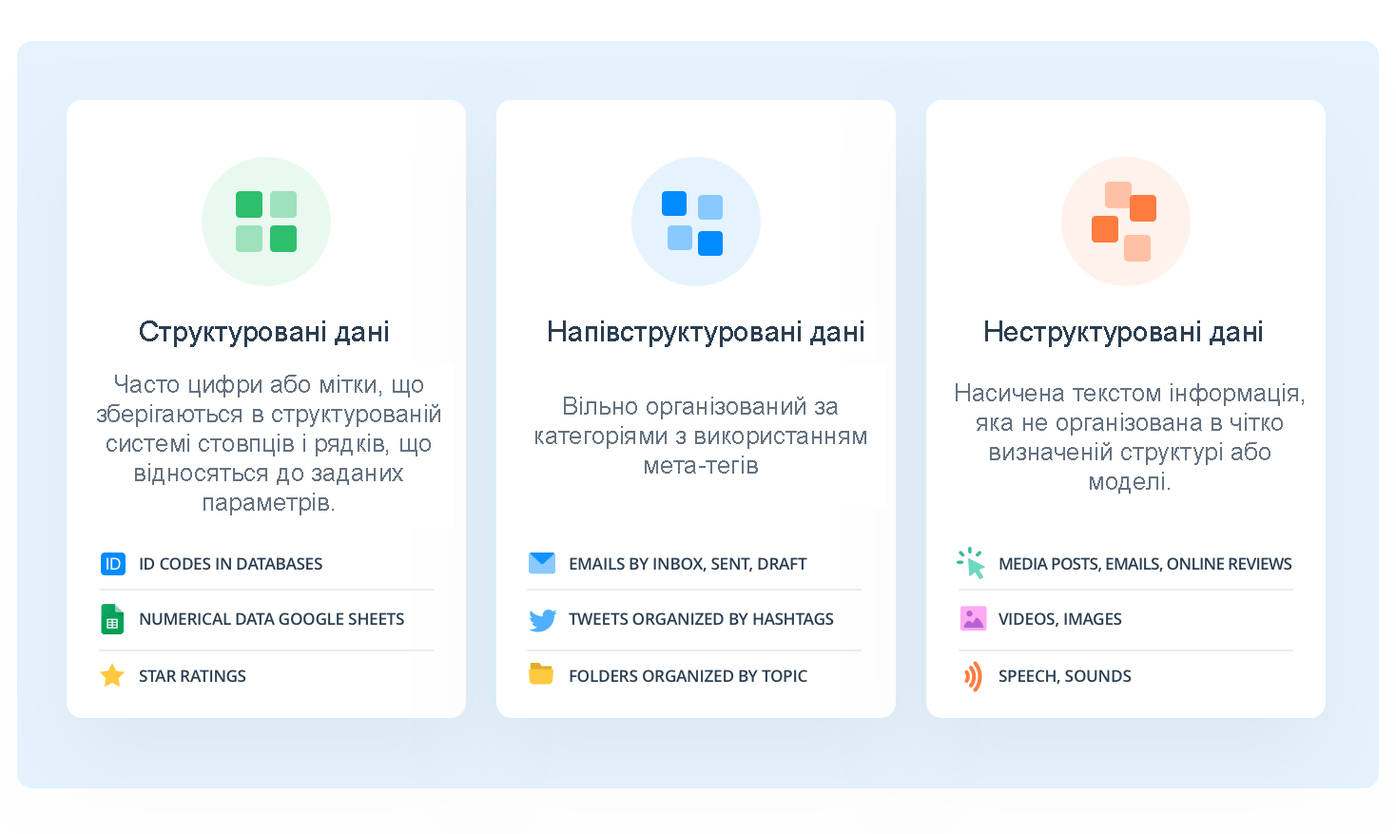
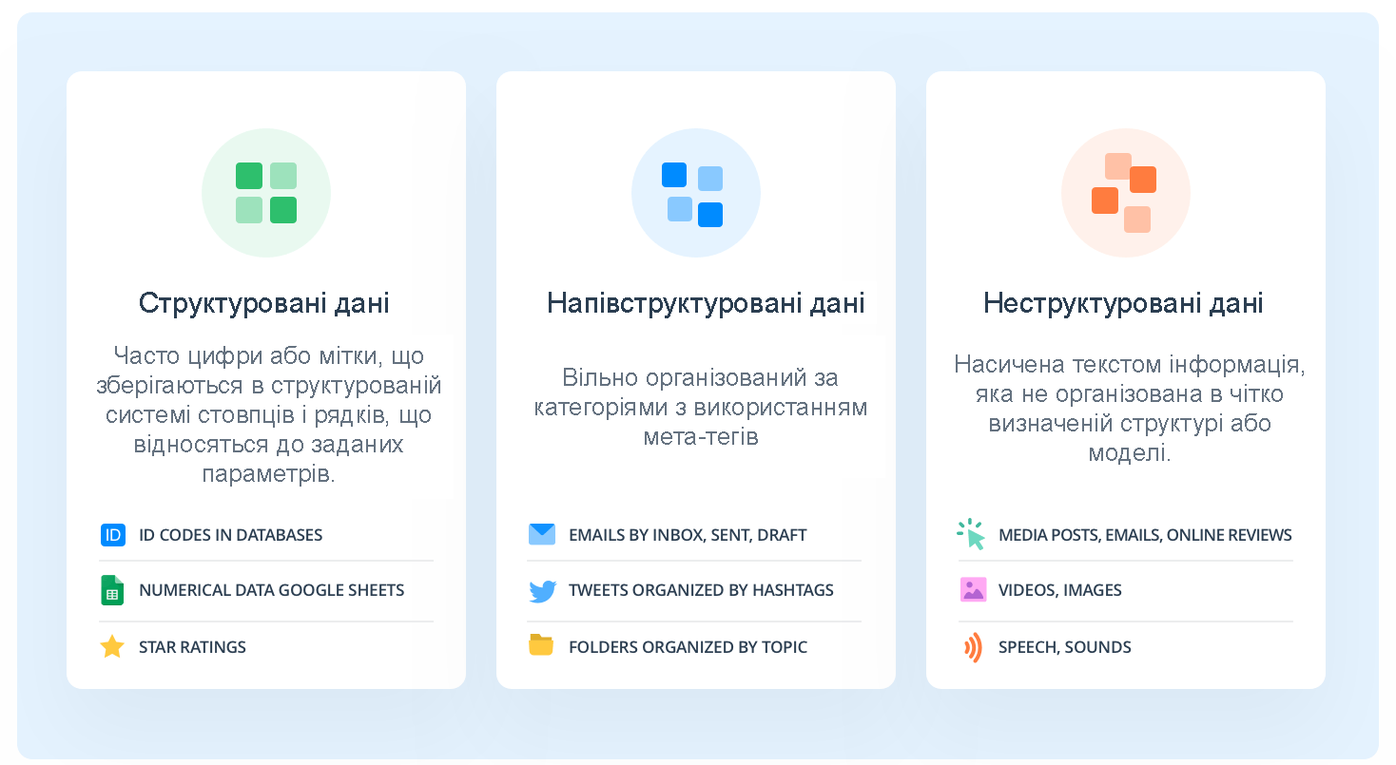
Виправив оформлення картинок

diff --git a/docs/requirements/state-of-the-art.md b/docs/requirements/state-of-the-art.md
@@ -7,118 +7,121 @@
 
 ## Основні визначення
 
-**База даних**  - сукупність даних, організованих відповідно до концепції, яка описує характеристику цих даних і взаємозв'язки між їх елементами; ця сукупність підтримує щонайменше одну з областей застосування. В загальному випадку база даних містить схеми, таблиці, подання, збережені процедури та інші об'єкти.[<sup>[1]</sup>](./state-of-the-art.html#висновки)
+**База даних**  - сукупність даних, організованих відповідно до концепції, яка описує характеристику цих даних і взаємозв'язки між їх елементами; ця сукупність підтримує щонайменше одну з областей застосування. В загальному випадку база даних містить схеми, таблиці, подання, збережені процедури та інші об'єкти.[<sup>[1]</sup>](./state-of-the-art.html#посилання)
 
-**Медіа контент**  - це інформація, яка міститься в засобах комунікації. Це включає в себе Інтернет, кіно, телебачення, радіо, аудіо компакт-диски, книги, журнали, фізичне мистецтво та живий контент. Він спрямований на кінцевого користувача або аудиторію в секторах видавництва, мистецтва та комунікацій.[<sup>[2]</sup>](./state-of-the-art.html#висновки)
+**Медіа контент**  - це інформація, яка міститься в засобах комунікації. Це включає в себе Інтернет, кіно, телебачення, радіо, аудіо компакт-диски, книги, журнали, фізичне мистецтво та живий контент. Він спрямований на кінцевого користувача або аудиторію в секторах видавництва, мистецтва та комунікацій.[<sup>[2]</sup>](./state-of-the-art.html#посилання)
 
-**Аналітика**  - основа інтелектуальної, логіко-мисленевої діяльності, спрямованої на рішення практичних завдань. У її основі лежить не стільки принцип констатації фактів, скільки принцип «випередження подій», що дозволяє організації або індивідові прогнозувати майбутній стан об'єкту аналізу.[<sup>[3]</sup>](./state-of-the-art.html#висновки)
+**Аналітика**  - основа інтелектуальної, логіко-мисленевої діяльності, спрямованої на рішення практичних завдань. У її основі лежить не стільки принцип констатації фактів, скільки принцип «випередження подій», що дозволяє організації або індивідові прогнозувати майбутній стан об'єкту аналізу.[<sup>[3]</sup>](./state-of-the-art.html#посилання)
 
-**Бібліотека(програмування)**  - збірка об'єктів чи підпрограм для вирішення близьких за тематикою задач. У залежності від мови програмування бібліотеки містять об'єктні модулі чи сирцевий код та дані, допоміжні для задіяння та інтеграції нових можливостей в програмні рішення.[<sup>[4]</sup>](./state-of-the-art.html#висновки)
+**Бібліотека(програмування)**  - збірка об'єктів чи підпрограм для вирішення близьких за тематикою задач. У залежності від мови програмування бібліотеки містять об'єктні модулі чи сирцевий код та дані, допоміжні для задіяння та інтеграції нових можливостей в програмні рішення.[<sup>[4]</sup>](./state-of-the-art.html#посилання)
 
-**Машинне навчання**  - це підгалузь штучного інтелекту в галузі інформатики, яка часто застосовує статистичні прийоми для надання комп'ютерам здатності «навчатися» (тобто, поступово покращувати продуктивність у певній задачі) з даних, без того, щоби бути програмованими явно.[<sup>[5]</sup>](./state-of-the-art.html#висновки)
+**Машинне навчання**  - це підгалузь штучного інтелекту в галузі інформатики, яка часто застосовує статистичні прийоми для надання комп'ютерам здатності «навчатися» (тобто, поступово покращувати продуктивність у певній задачі) з даних, без того, щоби бути програмованими явно.[<sup>[5]</sup>](./state-of-the-art.html#посилання)
 
-**Відкритий код**  - принцип «розподіленої» розробки, що використовується в технології, мистецтві, політиці громадських організацій та мереж, а насамперед — у створенні вільного програмного забезпечення.[<sup>[6]</sup>](./state-of-the-art.html#висновки)
+**Відкритий код**  - принцип «розподіленої» розробки, що використовується в технології, мистецтві, політиці громадських організацій та мереж, а насамперед — у створенні вільного програмного забезпечення.[<sup>[6]</sup>](./state-of-the-art.html#посилання)
 
-**FAQ**  - підбірка часто задаваних питань на певну тему та відповідей на них, яка створюється переважно для того, щоб не треба було постійно відповідати на одні й ті ж запитання, часто нудні для того, хто відповідає.[<sup>[7]</sup>](./state-of-the-art.html#висновки)
+**FAQ**  - підбірка часто задаваних питань на певну тему та відповідей на них, яка створюється переважно для того, щоб не треба було постійно відповідати на одні й ті ж запитання, часто нудні для того, хто відповідає.[<sup>[7]</sup>](./state-of-the-art.html#посилання)
 
 ## Підходи та способи вирішення завдання
 
 
-Основним елементом навколо якого відбуваються всі процеси є дані. Хто володіє інформацією, той володіє світом! Тому задля розширення сфери впливу наш проєкт ґрунтується на **Data mining**. Це техніка дослідження, яка використовує обчислювальний аналіз для виявлення закономірностей у великих наборах даних. Методи data mining варіюються від програм машинного навчання до ГІС і картографування, а також бізнес-аналітики. Діапазон типів даних ускладнює визначення методів аналізу даних.[<sup>[8]</sup>](./state-of-the-art.html#висновки)
+Основним елементом навколо якого відбуваються всі процеси є дані. Хто володіє інформацією, той володіє світом! Тому задля розширення сфери впливу наш проєкт ґрунтується на **Data mining**. Це техніка дослідження, яка використовує обчислювальний аналіз для виявлення закономірностей у великих наборах даних. Методи data mining варіюються від програм машинного навчання до ГІС і картографування, а також бізнес-аналітики. Діапазон типів даних ускладнює визначення методів аналізу даних.[<sup>[8]</sup>](./state-of-the-art.html#посилання)
 
 Медіаконтент зазвичай подається у зрозумілій для людини формі тексту, інколи обрамленій у вигляді аудіо або відео контенту. Все це інтерпретується комп'ютером як неструктурований текст. **Text mining** вирішує спектр таких задач перетворюючи неструктурований текст в структурований формат для  подальшого виявлення закономірностей і нових тенденцій.
 
-Текст є одним із найпоширеніших типів даних у БД. Залежно від бази даних ці дані можуть бути організовані наступним чином:[<sup>[9]</sup>](./state-of-the-art.html#висновки)
+Текст є одним із найпоширеніших типів даних у БД. Залежно від бази даних ці дані можуть бути організовані наступним чином:[<sup>[9]</sup>](./state-of-the-art.html#посилання)
 
 - Структуровані дані: ці дані стандартизовані в табличному форматі з численними рядками та стовпцями, що полегшує їх зберігання й обробку для аналізу та алгоритмів машинного навчання. Структуровані дані можуть містити такі вхідні дані, як імена, адреси та номери телефонів.
 - Неструктуровані дані: ці дані не мають попередньо визначеного формату даних. Він може включати текст з таких джерел, як соціальні мережі або огляди продуктів, або мультимедійні формати, такі як відео- та аудіофайли.
 - Напівструктуровані дані: як випливає з назви, ці дані являють собою суміш структурованих і неструктурованих форматів даних. Хоча у нього є певна організація, у нього недостатньо структури, щоб відповідати вимогам реляційної бази даних. Приклади напівструктурованих даних включають файли XML, JSON і HTML.
 
+Приклади окремих категорій даних, які належать до *Структурованих*, *Напівструктурованих* та *Неструкурованих* даних навередні на Рис. 1 
+
 ![Struct data](../media/1.png)
 
-*[Pic.1. What Is Unstructured Data](https://monkeylearn.com/blog/what-is-unstructured-data/)*
+*Рис. 1. Короткий огляд різновидів даних з прикладами[<sup>[22]</sup>](./state-of-the-art.html#посилання)*
 
 
-Перш ніж застосовувати різні методи інтелектуального аналізу тексту, ви повинні почати з попередньої обробки тексту, яка є практикою очищення та перетворення текстових даних у придатний для використання формат. Ця практика є основним аспектом **Natural Language Processing** (або NLP) — це компонент видобутку тексту, який виконує особливий вид лінгвістичного аналізу, який по суті допомагає машині «читати» текст.[<sup>[10]</sup>](./state-of-the-art.html#висновки) 
+Перш ніж застосовувати різні методи інтелектуального аналізу тексту, ви повинні почати з попередньої обробки тексту, яка є практикою очищення та перетворення текстових даних у придатний для використання формат. Ця практика є основним аспектом **Natural Language Processing** (або NLP) — це компонент видобутку тексту, який виконує особливий вид лінгвістичного аналізу, який по суті допомагає машині «читати» текст.[<sup>[10]</sup>](./state-of-the-art.html#посилання) За допомогою NLP користувач може створити універсальний підхід, який буде побудований на окремо взятих методах обробки природньої мови (див. Рис. 2)
 
 ![NLP](../media/2.png)
 
-*[Pic.2. Natural Language Processing (NLP) based Chatbots](https://medium.com/analytics-vidhya/natural-language-processing-nlp-based-chatbots-7b2436428256)*
-
+*Рис. 2. Методи NLP, використані для ствоення чат-боту[<sup>[23]</sup>](./state-of-the-art.html#посилання)*
 
 
 NLP використовує різні методології для розшифровки неоднозначності в людській мові, включаючи наступні:
 
-- **Tokenization**: Це процес розбиття довгого тексту на речення та слова, які називаються "токенами". Потім вони використовуються в моделях, таких як bag-of-words, для кластеризації тексту і завдань зіставлення документів.[<sup>[9]</sup>](./state-of-the-art.html#висновки)
+- **Tokenization**: Це процес розбиття довгого тексту на речення та слова, які називаються "токенами". Потім вони використовуються в моделях, таких як bag-of-words, для кластеризації тексту і завдань зіставлення документів.[<sup>[9]</sup>](./state-of-the-art.html#посилання)
 
-- **Stemming**: Це процес відділення префіксів і суфіксів від слів для отримання форми та значення кореня слова. Цей метод покращує пошук інформації шляхом зменшення розміру індексованих файлів.[<sup>[9]</sup>](./state-of-the-art.html#висновки)
+- **Stemming**: Це процес відділення префіксів і суфіксів від слів для отримання форми та значення кореня слова. Цей метод покращує пошук інформації шляхом зменшення розміру індексованих файлів.[<sup>[9]</sup>](./state-of-the-art.html#посилання)
 
-- **Summarization**: Цей метод забезпечує короткий виклад довгих фрагментів тексту для створення короткого, зв'язного резюме основних положень документа.[<sup>[2]</sup>](./state-of-the-art.html#висновки)
+- **Summarization**: Цей метод забезпечує короткий виклад довгих фрагментів тексту для створення короткого, зв'язного резюме основних положень документа.[<sup>[2]</sup>](./state-of-the-art.html#посилання)
+
+Поєднуючи всі ці процеси в один, з легістю можна розбити речення для подальшого аналізу машиною або людиною (див. Рис. 3)
 
 ![TPS](../media/3.jpeg)
 
-[Pic.3. Email Classification Using Natural Language Processing (NLP)](https://medium.datadriveninvestor.com/email-classification-using-natural-language-processing-nlp-ee3573bc79f7)
+Рис. 3. Процес розбиття речення на структурні одиниці[<sup>[24]</sup>](./state-of-the-art.html#посилання)
 
 
-- **Part-of-Speech (PoS) tagging**: Цей метод присвоює тег кожному токену в документі на основі його частини мови, тобто позначає іменники, дієслова, прикметники тощо. цей крок дозволяє проводити семантичний аналіз неструктурованого тексту.[<sup>[9]</sup>](./state-of-the-art.html#висновки)
+- **Part-of-Speech (PoS) tagging**: Цей метод присвоює тег кожному токену в документі на основі його частини мови (див. Рис. 4), тобто позначає іменники, дієслова, прикметники тощо. цей крок дозволяє проводити семантичний аналіз неструктурованого тексту.[<sup>[9]</sup>](./state-of-the-art.html#посилання)
 
 ![PoS](../media/4.png)
 
-*[Pic.4. Learning POS Tagging & Chunking in NLP](https://medium.com/greyatom/learning-pos-tagging-chunking-in-nlp-85f7f811a8cb)*
+*Рис. 4. Використання PoS tagging в реченні [<sup>[25]</sup>](./state-of-the-art.html#посилання)*
 
 
-- **Text categorization**: Ця задача, яка також відома як text classification, відповідає за аналіз текстових документів і їх класифікацію на основі зумовлених тим або категорій. Ця підзадача особливо корисна при категоризації синонімів і скорочень.[<sup>[9]</sup>](./state-of-the-art.html#висновки)
+- **Text categorization**: Ця задача, яка також відома як text classification, відповідає за аналіз текстових документів і їх класифікацію на основі зумовлених тим або категорій. Ця підзадача особливо корисна при категоризації синонімів і скорочень.[<sup>[9]</sup>](./state-of-the-art.html#посилання) (див. Рис. 5)
 
 ![TC](../media/5.jpg)
 
-*[Pic.5. Text Classification: What it is And Why it Matters](https://monkeylearn.com/text-classification/)*
+*Рис. 5. Модуль Text categorization в роботі [<sup>[26]</sup>](./state-of-the-art.html#посилання)*
 
 
-- **Sentiment analysis**: Використання цього підходу дозволяє нам визначати позитивні або негативні настрої з внутрішніх або зовнішніх джерел даних, дозволяючи відстежувати зміни щодо об'єктів за якими ми слідкуємо з плином часу. Він зазвичай використовується для надання інформації про сприйняття аудиторією різних брендів, продуктів і послуг. Ці аналітичні дані можуть спонукати компанії встановлювати контакти з клієнтами, покращувати внутрішні процеси та користувальницький досвід.[<sup>[9]</sup>](./state-of-the-art.html#висновки)
+- **Sentiment analysis**: Використання цього підходу дозволяє нам визначати позитивні або негативні настрої з внутрішніх або зовнішніх джерел даних, дозволяючи відстежувати зміни щодо об'єктів за якими ми слідкуємо з плином часу. Він зазвичай використовується для надання інформації про сприйняття аудиторією різних брендів, продуктів і послуг. Ці аналітичні дані можуть спонукати компанії встановлювати контакти з клієнтами, покращувати внутрішні процеси та користувальницький досвід.[<sup>[9]</sup>](./state-of-the-art.html#посилання) (див. Рис. 6)
 
 ![SA](../media/6.jpeg)
 
-*[Pic.6. Email Sentiment Analysis in 3 Steps](https://monkeylearn.com/blog/email-sentiment-analysis/)*
+*Рис. 6. Модуль Sentiment analysis в роботі[<sup>[27]</sup>](./state-of-the-art.html#посилання)*
 
 
-- **Named-entity recognition** (NER) також відомий як entity identification або  entity extraction, метод спрямований на пошук і категоризацію певних сутностей в тексті, таких як імена або локації. Наприклад, NER визначає "Київ" як місцеположення, а "Марія" - як жіноче ім'я.[<sup>[10]</sup>](./state-of-the-art.html#висновки)
+- **Named-entity recognition** (NER) також відомий як entity identification або  entity extraction, метод спрямований на пошук і категоризацію певних сутностей в тексті, таких як імена або локації. Наприклад, NER визначає "Київ" як місцеположення, а "Марія" - як жіноче ім'я.[<sup>[10]</sup>](./state-of-the-art.html#посилання) (див. Рис. 7)
 
 ![SA](../media/7.png)
 
-*[Pic.7. Named Entity Recognition: Concept, Tools and Tutorial](https://monkeylearn.com/blog/named-entity-recognition/)*
+*Рис. 7. Модуль Named-entity recognition в роботі[<sup>[28]</sup>](./state-of-the-art.html#посилання)*
 
 
 
-- **Full Text Search** належить до методів пошуку текстового вмісту в документі або колекції документів, що містять текстовий вміст. Система Full Text Search перевіряє весь текстовий вміст документів, намагаючись знайти відповідність одному пошуковому запиту або декільком термінам, причому аналіз тексту є ключовим компонентом.[<sup>[11]</sup>](./state-of-the-art.html#висновки)
+- **Full Text Search** належить до методів пошуку текстового вмісту в документі або колекції документів, що містять текстовий вміст. Система Full Text Search перевіряє весь текстовий вміст документів, намагаючись знайти відповідність одному пошуковому запиту або декільком термінам, причому аналіз тексту є ключовим компонентом.[<sup>[11]</sup>](./state-of-the-art.html#посилання)
 
-- **Word2vec** - в цьому підході модель створює векторний простір, як правило, з декількох сотень вимірювань, з кожним унікальним словом у множині таким чином, що слова, які мають спільні контексти в множині, розташовані близько один до одного в просторі. Це можна зробити, використовуючи 2 різних підходи: починаючи з одного слова, щоб передбачити його контекст (*Skip-gram*) або починаючи з контексту, щоб передбачити слово (*Continuous Bag-of-Words*).[<sup>[12]</sup>](./state-of-the-art.html#висновки)
+- **Word2vec** - в цьому підході модель створює векторний простір (див. Рис 8), як правило, з декількох сотень вимірювань, з кожним унікальним словом у множині таким чином, що слова, які мають спільні контексти в множині, розташовані близько один до одного в просторі. Це можна зробити, використовуючи 2 різних підходи: починаючи з одного слова, щоб передбачити його контекст (*Skip-gram*) або починаючи з контексту, щоб передбачити слово (*Continuous Bag-of-Words*).[<sup>[12]</sup>](./state-of-the-art.html#посилання)
 
-- **Deep Learning** - це підвид машинного навчання, який навчає комп'ютер виконувати людиноподібні завдання, такі як розпізнавання мови, ідентифікацію зображень і складання прогнозів. Це покращує здатність класифікувати, розпізнавати, виявляти та описувати дані за допомогою. У Text mining цей метод можна застосовувати для кластеризації та класифікації тексту, з допомогою Deep Learning легко знайти потрібну текстову інформацію.[<sup>[13]</sup>](./state-of-the-art.html#висновки)
+- **Deep Learning** - це підвид машинного навчання, який навчає комп'ютер виконувати людиноподібні завдання, такі як розпізнавання мови, ідентифікацію зображень і складання прогнозів. Це покращує здатність класифікувати, розпізнавати, виявляти та описувати дані за допомогою. У Text mining цей метод можна застосовувати для кластеризації та класифікації тексту, з допомогою Deep Learning легко знайти потрібну текстову інформацію.[<sup>[13]</sup>](./state-of-the-art.html#посилання)
 
-- **Tensor Flow** - це потужна бібліотека з відкритим кодом для машинного навчання, розроблена компанією Google. В основному використовується для глибокого навчання, підтримує розширену класифікацію тексту, Узагальнення, позначку і завдання розпізнавання мови. Оскільки це дає вам можливість аналізувати дані у величезних масштабах, великі компанії вибирають TensorFlow для побудови своїх моделей.[<sup>[14]</sup>](./state-of-the-art.html#висновки)
+- **Tensor Flow** - це потужна бібліотека з відкритим кодом для машинного навчання, розроблена компанією Google. В основному використовується для глибокого навчання, підтримує розширену класифікацію тексту, Узагальнення, позначку і завдання розпізнавання мови. Оскільки це дає вам можливість аналізувати дані у величезних масштабах, великі компанії вибирають TensorFlow для побудови своїх моделей.[<sup>[14]</sup>](./state-of-the-art.html#посилання)
 
-- **Data Sampling** - це техніка статистичного аналізу, яка використовується для відбору, обробки та аналізу репрезентативної підмножини точок даних для виявлення закономірностей і тенденцій у більшому наборі даних, що досліджується. Це дає змогу спеціалістам з аналізу даних, розробникам прогнозних моделей та іншим аналітикам даних працювати з невеликою, керованою кількістю даних, щоб швидше створювати та запускати аналітичні моделі, водночас одержуючи точні результати.[<sup>[21]</sup>](./state-of-the-art.html#висновки) 
+- **Data Sampling** - це техніка статистичного аналізу, яка використовується для відбору, обробки та аналізу репрезентативної підмножини точок даних для виявлення закономірностей і тенденцій у більшому наборі даних, що досліджується. Це дає змогу спеціалістам з аналізу даних, розробникам прогнозних моделей та іншим аналітикам даних працювати з невеликою, керованою кількістю даних, щоб швидше створювати та запускати аналітичні моделі, водночас одержуючи точні результати.[<sup>[21]</sup>](./state-of-the-art.html#посилання) 
 
 ![W2V](../media/8.png "Word2vec using Tensor Flow")
 
-*[Pic.8. NLP with gensim (word2vec)](samyzaf.com/ML/nlp/nlp.html)*
+*Рис. 8. Графік Word2vec побудований з використанням ШІ[<sup>[29]</sup>](./state-of-the-art.html#посилання)*
 
 
 ## Порівняльна характеристика існуючих засобів вирішення завдання
 
 ### Існуючі засоби для аналізу медіа-контенту які будуть порівнюватися:
 
-**Semantrum** [<sup>[15]</sup>](./state-of-the-art.html#висновки) - це онлайн система медіа-моніторингу та управління репутацією. Вона надає цілодобовий моніторинг згадок та аудит репутації у ЗМІ, веб-джерелах, соціальних мережах з детальною аналітикою, візуалізацією та відслідковуванням динаміки за персональними метриками. Моніторинг брендів, персон, подій чи будь-яких ключових слів.
+**Semantrum** [<sup>[15]</sup>](./state-of-the-art.html#посилання) - це онлайн система медіа-моніторингу та управління репутацією. Вона надає цілодобовий моніторинг згадок та аудит репутації у ЗМІ, веб-джерелах, соціальних мережах з детальною аналітикою, візуалізацією та відслідковуванням динаміки за персональними метриками. Моніторинг брендів, персон, подій чи будь-яких ключових слів.
 
-**BRAND24** [<sup>[16]</sup>](./state-of-the-art.html#висновки) - це інструмент, який допомагає компаніям відстежувати та залучати людей, а також медіакомпанії, які розповідають про свій бізнес. Клієнти можуть використовувати платформу для аналізу розмов про свої бренди, продукти та конкурентів, а також отримати свіжу інформацію про свою клієнтську базу.
+**BRAND24** [<sup>[16]</sup>](./state-of-the-art.html#посилання) - це інструмент, який допомагає компаніям відстежувати та залучати людей, а також медіакомпанії, які розповідають про свій бізнес. Клієнти можуть використовувати платформу для аналізу розмов про свої бренди, продукти та конкурентів, а також отримати свіжу інформацію про свою клієнтську базу.
 
-**Isentia** [<sup>[17]</sup>](./state-of-the-art.html#висновки) - надає вам цілодобовий 365-денний доступ до всього вашого друкованого, онлайнового, телевізійного, радіо та соціальних медіа-контенту з настроюваними сповіщеннями, інтегрованим медіа-плеєром і функціями, готовими до спільного доступу. Призначений для зайнятих професіоналів, які хочуть тримати руку на пульсі будь-якого важливого висвітлення за допомогою швидкого та надійного моніторингу медіа.
+**Isentia** [<sup>[17]</sup>](./state-of-the-art.html#посилання) - надає вам цілодобовий 365-денний доступ до всього вашого друкованого, онлайнового, телевізійного, радіо та соціальних медіа-контенту з настроюваними сповіщеннями, інтегрованим медіа-плеєром і функціями, готовими до спільного доступу. Призначений для зайнятих професіоналів, які хочуть тримати руку на пульсі будь-якого важливого висвітлення за допомогою швидкого та надійного моніторингу медіа.
 
-**Meltwater** [<sup>[18]</sup>](./state-of-the-art.html#висновки) - один з лідерських продуктів на американському ринку в галузі онлайн-моніторингу ЗМІ та медіа-аналітики. Програмне забезпечення Meltwater виділяється як одне з найбільш повних універсальних рішень для фахівців зі зв'язків з громадськістю (PR), комунікацій та маркетингу.
+**Meltwater** [<sup>[18]</sup>](./state-of-the-art.html#посилання) - один з лідерських продуктів на американському ринку в галузі онлайн-моніторингу ЗМІ та медіа-аналітики. Програмне забезпечення Meltwater виділяється як одне з найбільш повних універсальних рішень для фахівців зі зв'язків з громадськістю (PR), комунікацій та маркетингу.
 
-**YouScan** [<sup>[19]</sup>](./state-of-the-art.html#висновки) - це платформа для аналітики соціальних медіа на базі штучного інтелекту з найкращими в індустрії можливостями аналізу зображень. Можливості YouScan дозволяють розпізнавати лого, об'єкти, сцени, активності та демографічну інформацію на зображеннях.
+**YouScan** [<sup>[19]</sup>](./state-of-the-art.html#посилання) - це платформа для аналітики соціальних медіа на базі штучного інтелекту з найкращими в індустрії можливостями аналізу зображень. Можливості YouScan дозволяють розпізнавати лого, об'єкти, сцени, активності та демографічну інформацію на зображеннях.
 
-**Brandwatch** [<sup>[20]</sup>](./state-of-the-art.html#висновки) - платформа для збирання та аналізу данних з блогів, форумів, сайтів для відгуків, та соціальних мереж.
+**Brandwatch** [<sup>[20]</sup>](./state-of-the-art.html#посилання) - платформа для збирання та аналізу даних з блогів, форумів, сайтів для відгуків, та соціальних мереж.
 
 ### Порівняльна характеристика властивостей FURPS:
 
@@ -198,4 +201,20 @@ NLP використовує різні методології для розши
 
 20. [Brandwatch](https://www.brandwatch.com)
 
-21. [Data Sampling](https://www.techtarget.com/searchbusinessanalytics/definition/data-sampling) 
+21. [Data Sampling](https://www.techtarget.com/searchbusinessanalytics/definition/data-sampling)
+
+22. [Рис. 1](https://monkeylearn.com/blog/what-is-unstructured-data/)
+
+23. [Рис. 2](https://medium.com/analytics-vidhya/natural-language-processing-nlp-based-chatbots-7b2436428256)
+
+24. [Рис. 3](https://medium.datadriveninvestor.com/email-classification-using-natural-language-processing-nlp-ee3573bc79f7)
+
+25. [Рис. 4](https://medium.com/greyatom/learning-pos-tagging-chunking-in-nlp-85f7f811a8cb)
+
+26. [Рис. 5](https://monkeylearn.com/text-classification/)
+
+27. [Рис. 6](https://monkeylearn.com/blog/email-sentiment-analysis/)
+
+28. [Рис. 7](https://monkeylearn.com/blog/named-entity-recognition/)
+
+29. [Рис. 8](https://samyzaf.com/ML/nlp/nlp.html)
